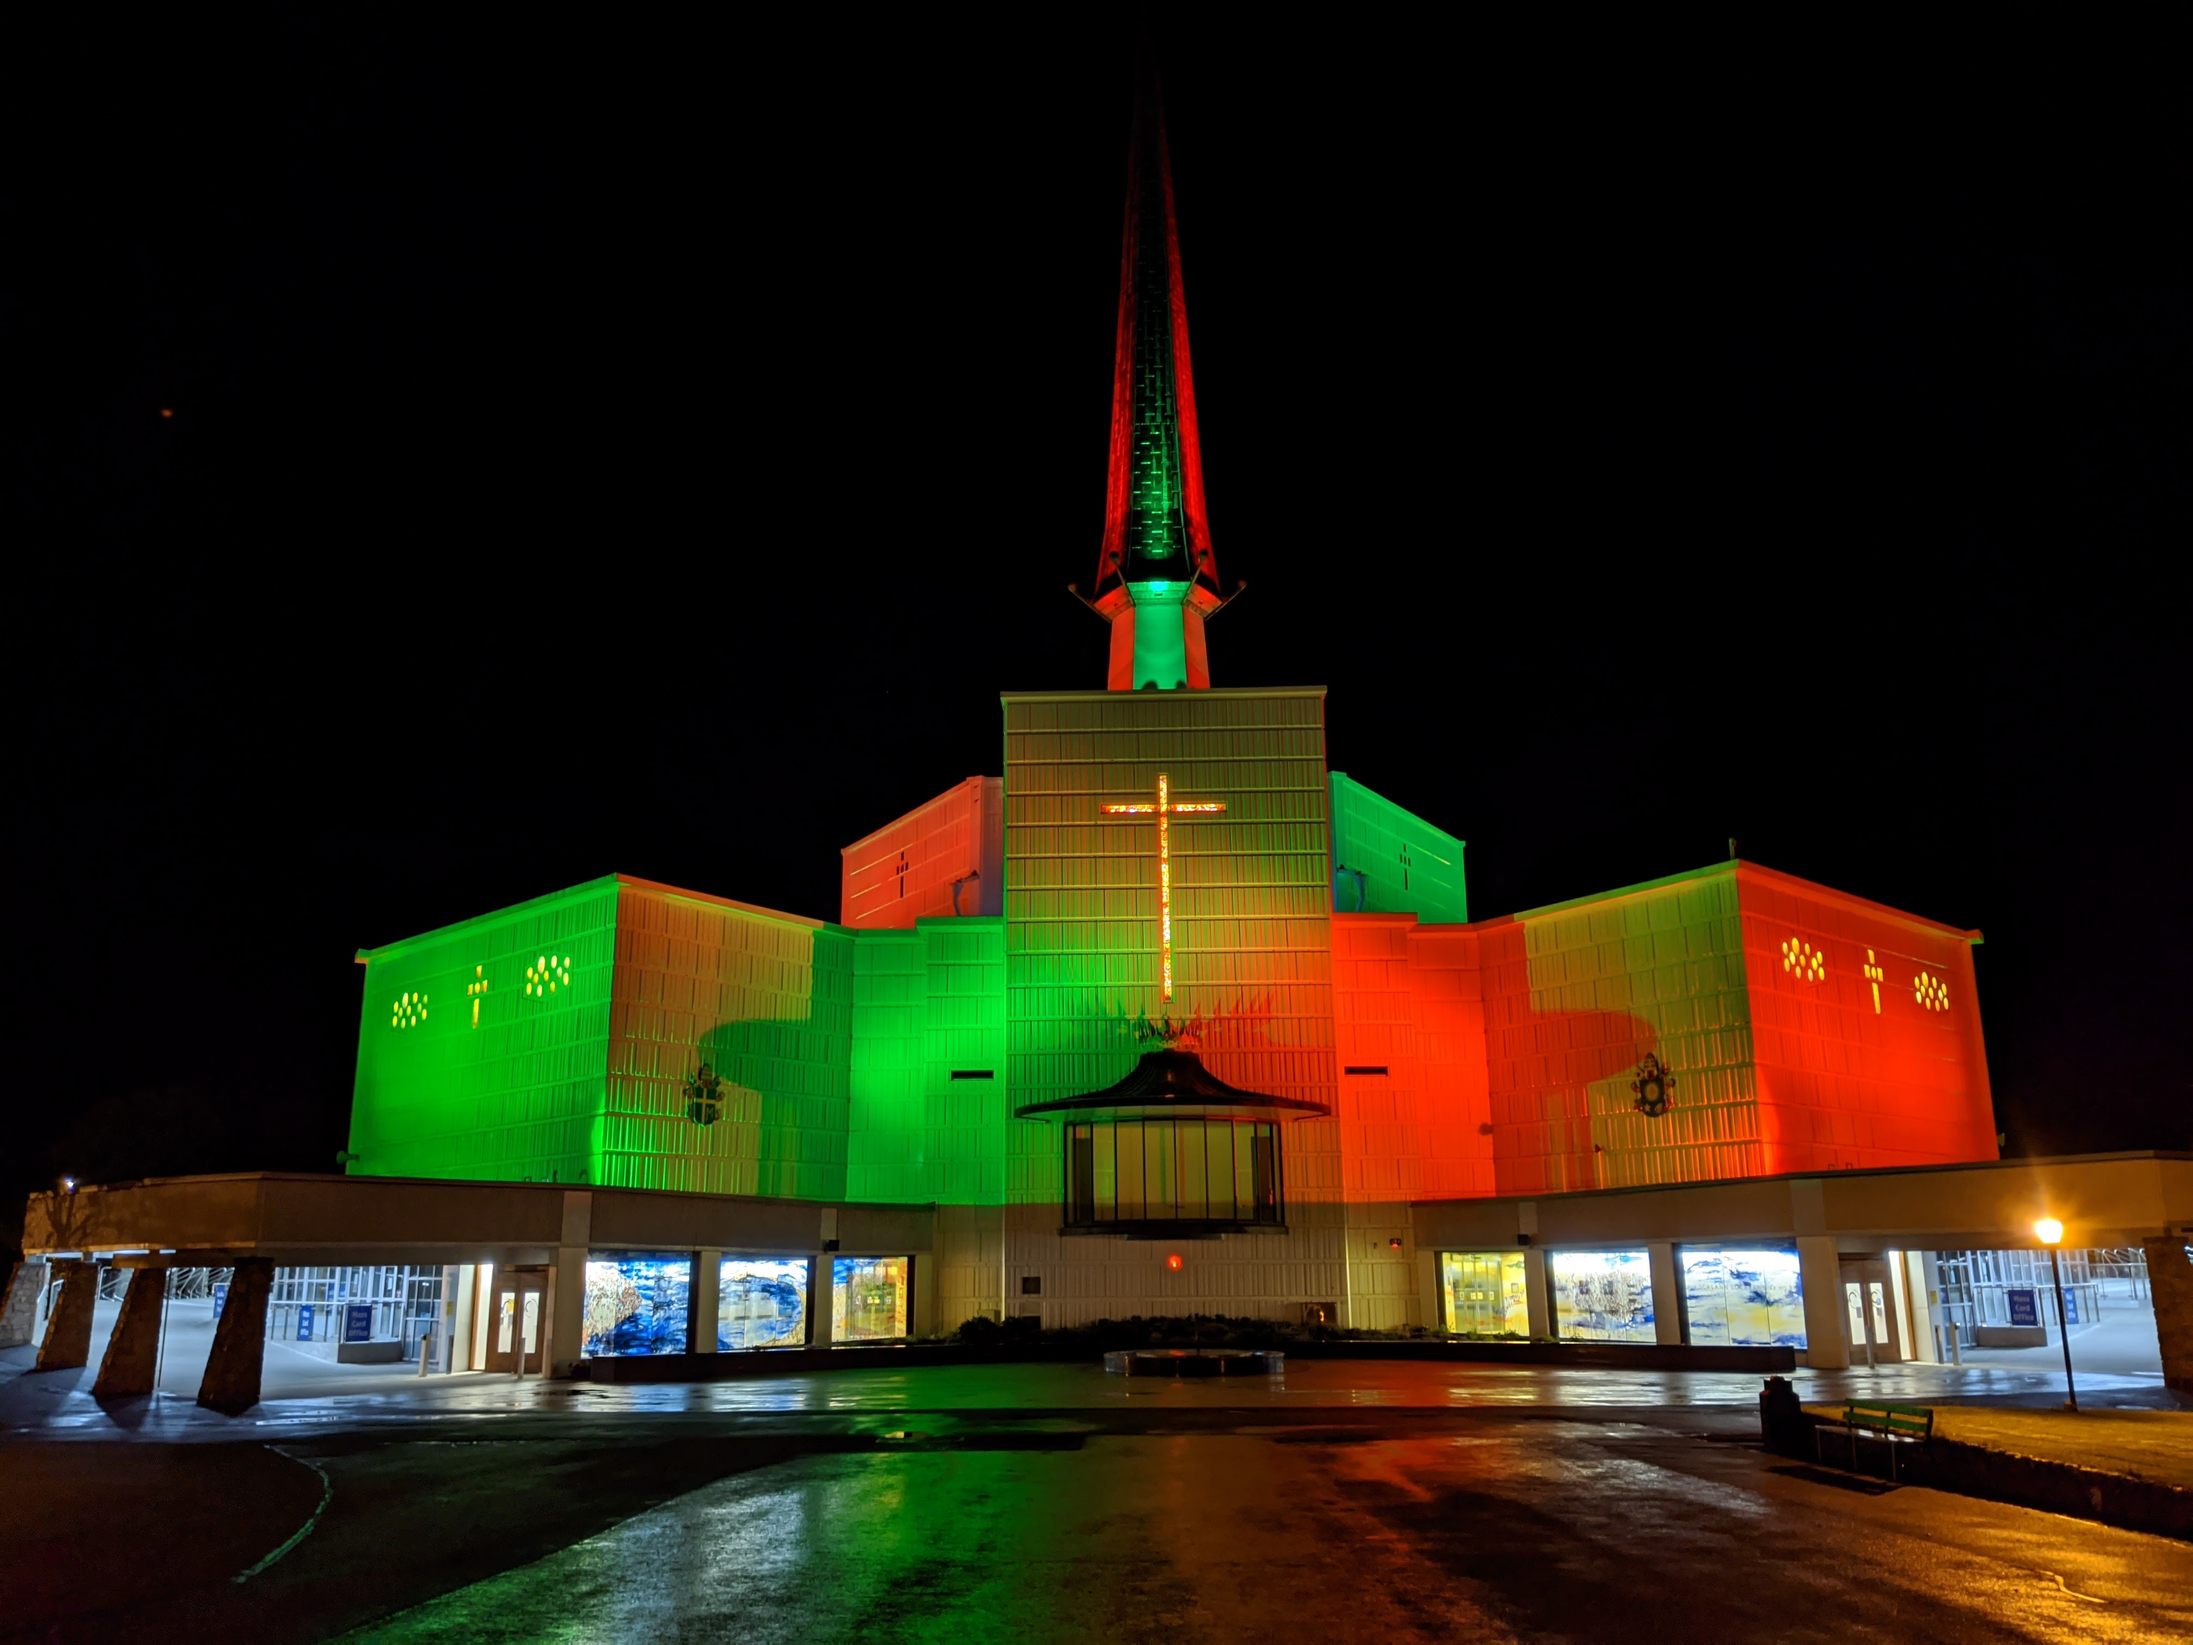
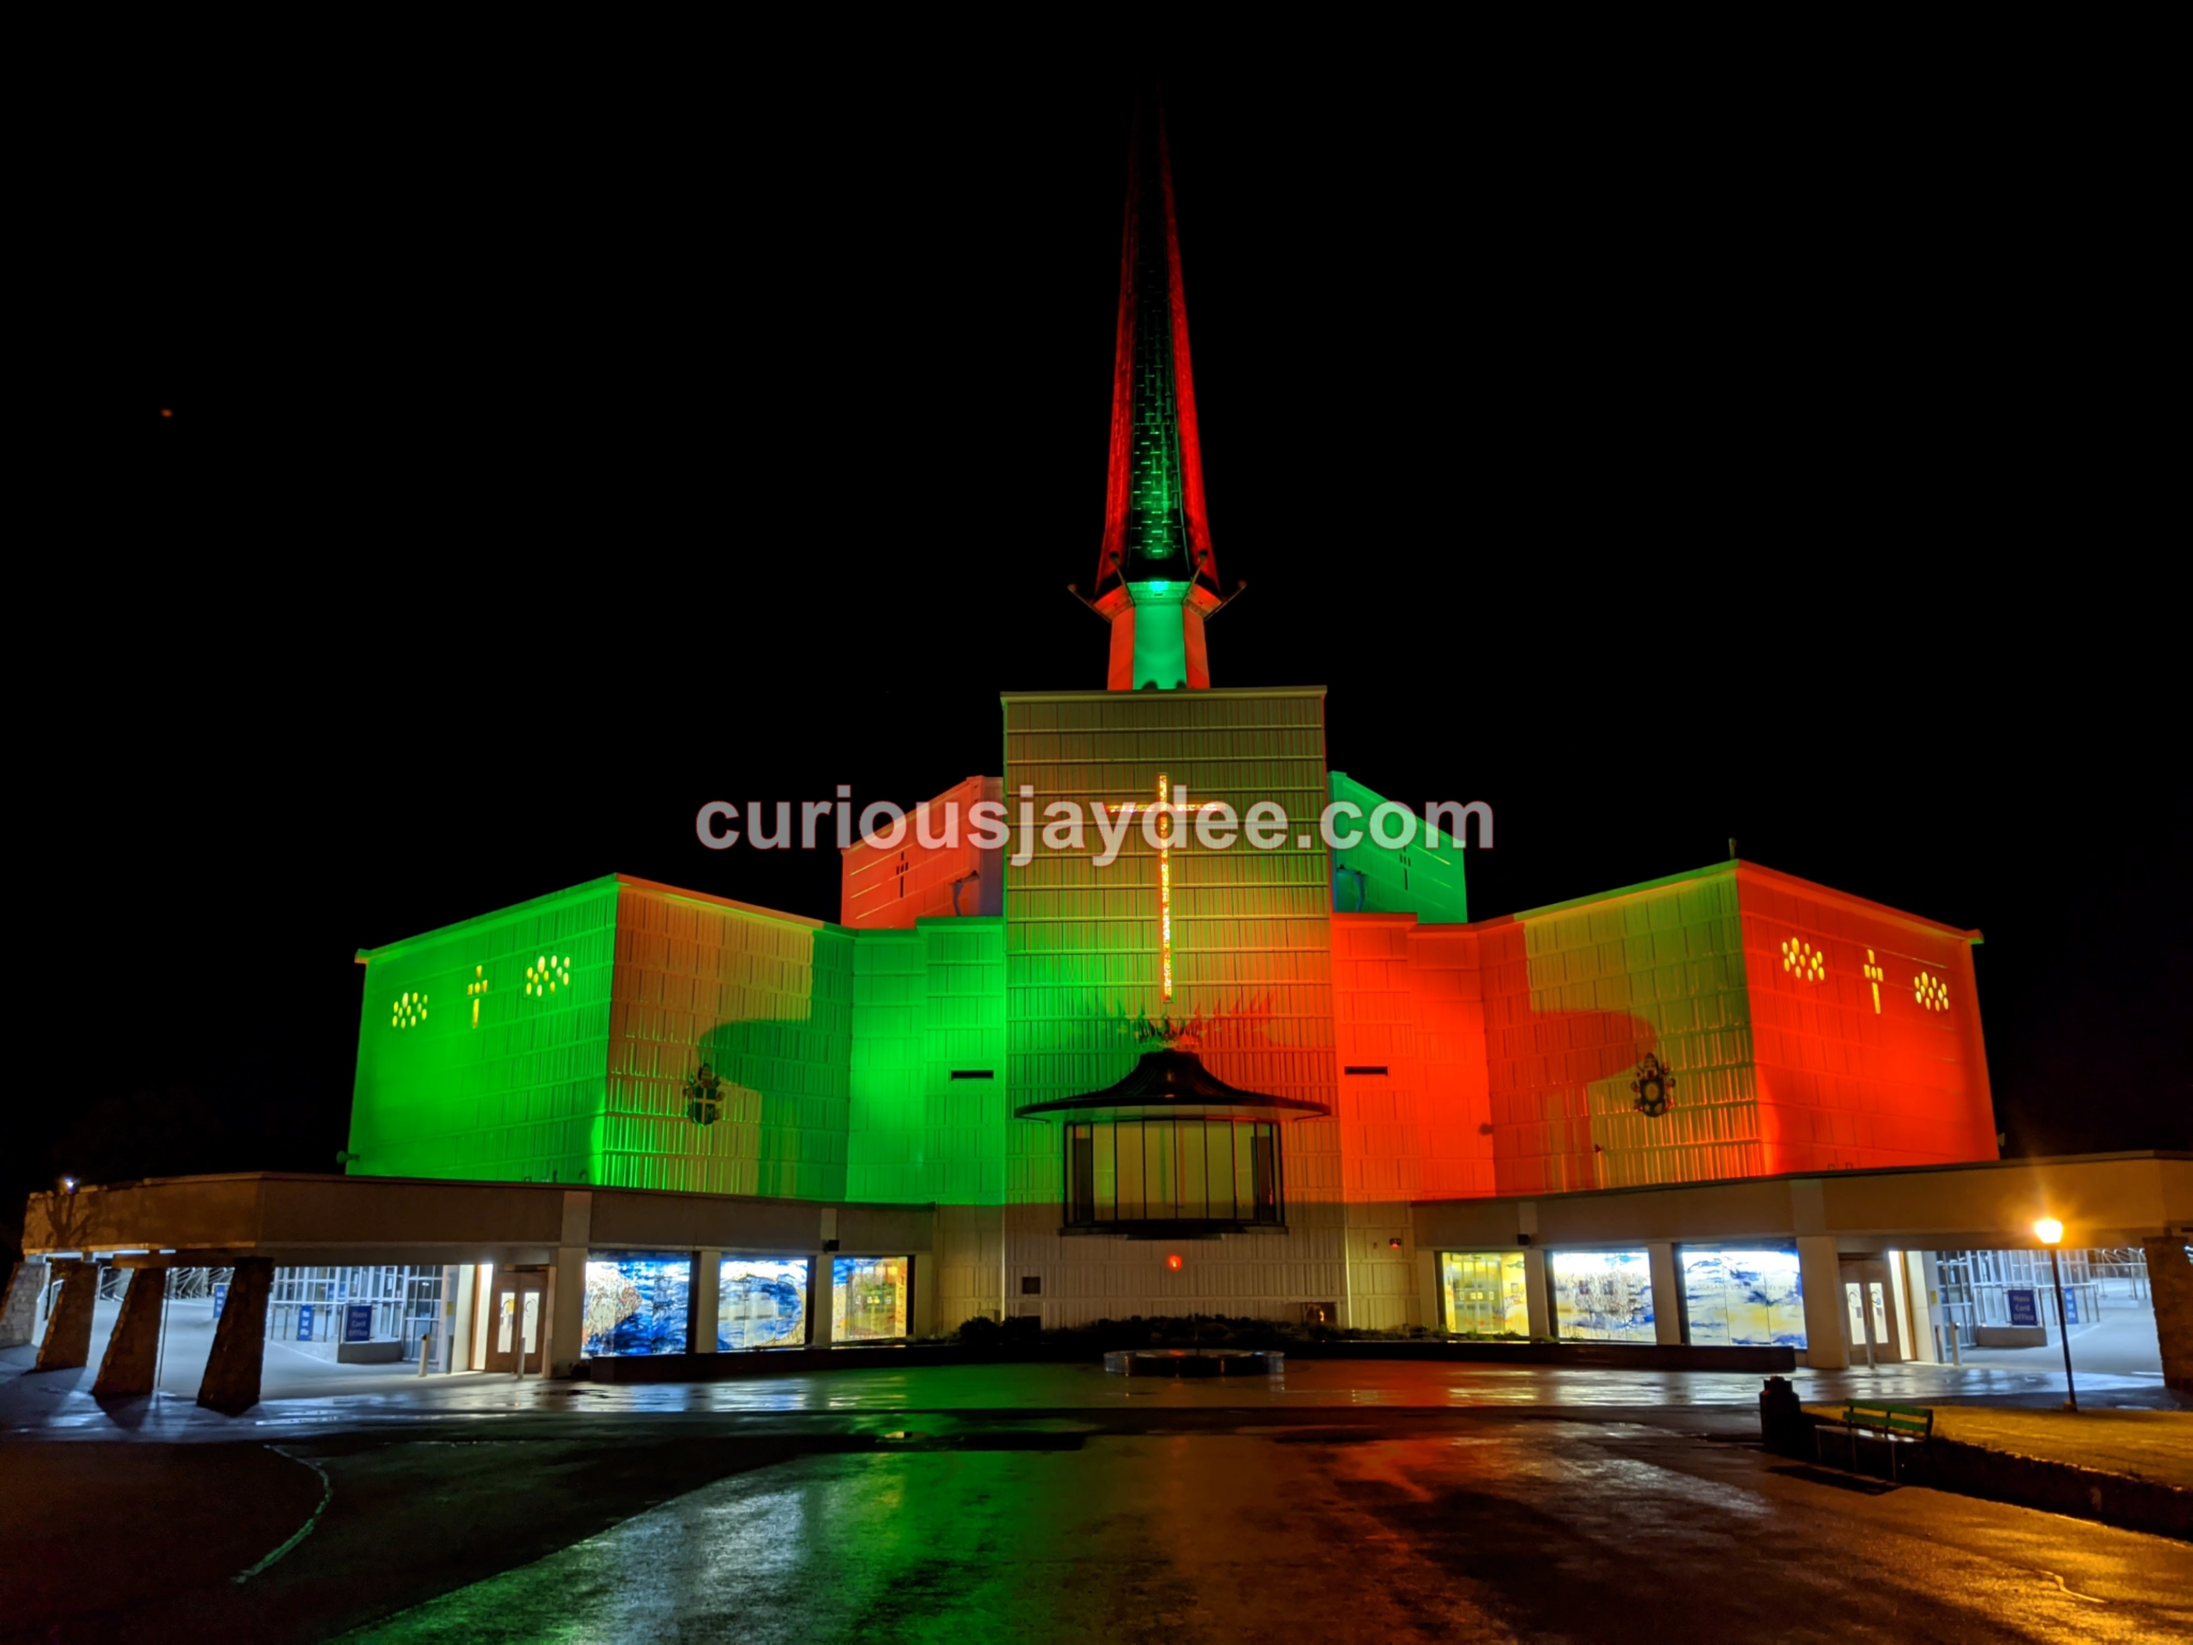
Add images

Changed region(s): [[0.3125, 0.4663, 0.6875, 0.5284]]

diff --git a/src/pages/index.js b/src/pages/index.js
@@ -5,8 +5,8 @@ import Gallery from '../components/Gallery'
 import Layout from '../components/layout'
 
 const HomeIndex = () => {
-  const siteTitle = 'Gatsby Starter - Strata'
-  const siteDescription = 'Site description'
+  const siteTitle = 'CuriousJayDee.com'
+  const siteDescription = 'Pretend Photographer, Pilot, Engineer'
 
   return (
     <Layout>
@@ -32,17 +32,17 @@ const HomeIndex = () => {
             Accumsan orci faucibus id eu lorem semper nunc nisi lorem vulputate
             lorem neque cubilia.
           </p>
-          <ul className="actions">
+          {/* <ul className="actions">
             <li>
               <a href="#" className="button">
                 Learn More
               </a>
             </li>
-          </ul>
+          </ul> */}
         </section>
 
         <section id="two">
-          <h2>Recent Work</h2>
+          <h2>Recent Photographs</h2>
 
           <Gallery />
 
@@ -62,7 +62,7 @@ const HomeIndex = () => {
           </p>
           <div className="row">
             <div className="8u 12u$(small)">
-              <form method="post" data-netlify="true" name ="contact">
+              {/* <form method="post" data-netlify="true" name ="contact">
                 <div className="row uniform 50%">
                   <div className="6u 12u$(xsmall)">
                     <input
@@ -94,31 +94,31 @@ const HomeIndex = () => {
                     <input type="submit" value="Send Message" />
                   </li>
                 </ul>
-              </form>
+              </form> */}
             </div>
             <div className="4u 12u$(small)">
               <ul className="labeled-icons">
-                <li>
+                {/* <li>
                   <h3 className="icon fa-home">
                     <span className="label">Address</span>
                   </h3>
                   Ireland
-                  {/* <br />
+                  <br />
                   Nashville, TN 00000
                   <br />
-                  United States */}
-                </li>
-                <li>
+                  United States
+                </li> */}
+                {/* <li>
                   <h3 className="icon fa-mobile">
                     <span className="label">Phone</span>
                   </h3>
                   000-000-0000
-                </li>
+                </li> */}
                 <li>
                   <h3 className="icon fa-envelope-o">
                     <span className="label">Email</span>
                   </h3>
-                  <a href="#">duggan.johnj@gmail.com</a>
+                  duggan.johnj@gmail.com
                 </li>
               </ul>
             </div>

diff --git a/src/components/Gallery/constants/defaultImages.js b/src/components/Gallery/constants/defaultImages.js
@@ -5,6 +5,7 @@ import full04 from '../../../assets/images/fulls/04.jpg'
 import full05 from '../../../assets/images/fulls/05.jpg'
 import full06 from '../../../assets/images/fulls/06.jpg'
 import full07 from '../../../assets/images/fulls/07.jpg'
+import full08 from '../../../assets/images/fulls/08.jpg'
 import thumb02 from '../../../assets/images/thumbs/02.jpg'
 import thumb01 from '../../../assets/images/thumbs/01.jpg'
 import thumb03 from '../../../assets/images/thumbs/03.jpg'
@@ -12,9 +13,11 @@ import thumb04 from '../../../assets/images/thumbs/04.jpg'
 import thumb05 from '../../../assets/images/thumbs/05.jpg'
 import thumb06 from '../../../assets/images/thumbs/06.jpg'
 import thumb07 from '../../../assets/images/thumbs/07.jpg'
+import thumb08 from '../../../assets/images/thumbs/08.jpg'
 
 
 export const DEFAULT_IMAGES = [
+  
     {
       id: '1',
       source: full01,
@@ -45,23 +48,31 @@ export const DEFAULT_IMAGES = [
     },
     {
       id: '5',
+      source: full07,
+      thumbnail: thumb07,
+      caption: 'Photo 7',
+      description: 'Lorem ipsum dolor sit amet nisl sed nullam feugiat.',
+    },
+    {
+      id: '6',
+      source: full08,
+      thumbnail: thumb08,
+      caption: 'Photo 8',
+      description: 'Lorem ipsum dolor sit amet nisl sed nullam feugiat.',
+    },  
+    {
+      id: '7',
       source: full05,
       thumbnail: thumb05,
       caption: 'Photo 5',
       description: 'Lorem ipsum dolor sit amet nisl sed nullam feugiat.',
     },
     {
-      id: '6',
+      id: '8',
       source: full06,
       thumbnail: thumb06,
-      caption: 'Photo 6',
-      description: 'Lorem ipsum dolor sit amet nisl sed nullam feugiat.',
-    },
-    {
-      id: '7',
-      source: full07,
-      thumbnail: thumb07,
-      caption: 'Photo 7',
+      caption: 'Photo 6', 
       description: 'Lorem ipsum dolor sit amet nisl sed nullam feugiat.',
     }
+    
 ]

diff --git a/src/components/Footer.js b/src/components/Footer.js
@@ -9,7 +9,7 @@ const Footer = () => (
             <span className="label">Twitter</span>
           </a>
         </li>
-        <li>
+        {/* <li>
           <a href="#" className="icon fa-github">
             <span className="label">Github</span>
           </a>
@@ -18,19 +18,19 @@ const Footer = () => (
           <a href="#" className="icon fa-dribbble">
             <span className="label">Dribbble</span>
           </a>
-        </li>
-        <li>
+        </li> */}
+        {/* <li>
           <a href="#" className="icon fa-envelope-o">
             <span className="label">Email</span>
           </a>
-        </li>
+        </li> */}
       </ul>
-      <ul className="copyright">
+      {/* <ul className="copyright">
         <li>&copy; Gatsby Starter Strata</li>
         <li>
           Design: <a href="http://html5up.net">HTML5 UP</a>
         </li>
-      </ul>
+      </ul> */}
     </div>
   </div>
 )
